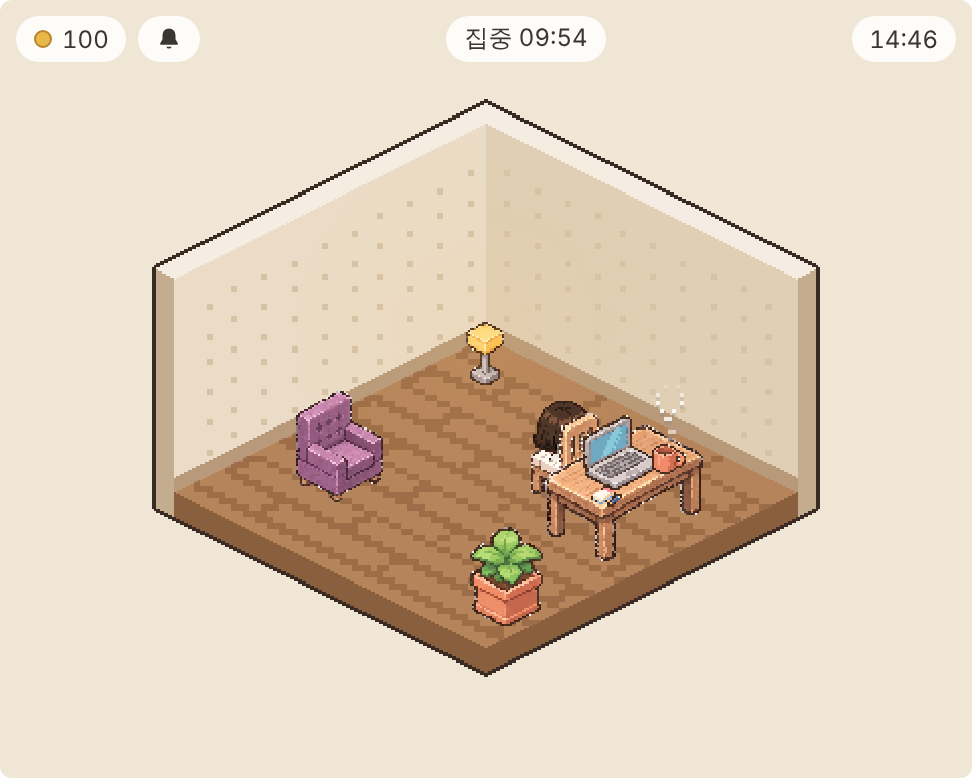
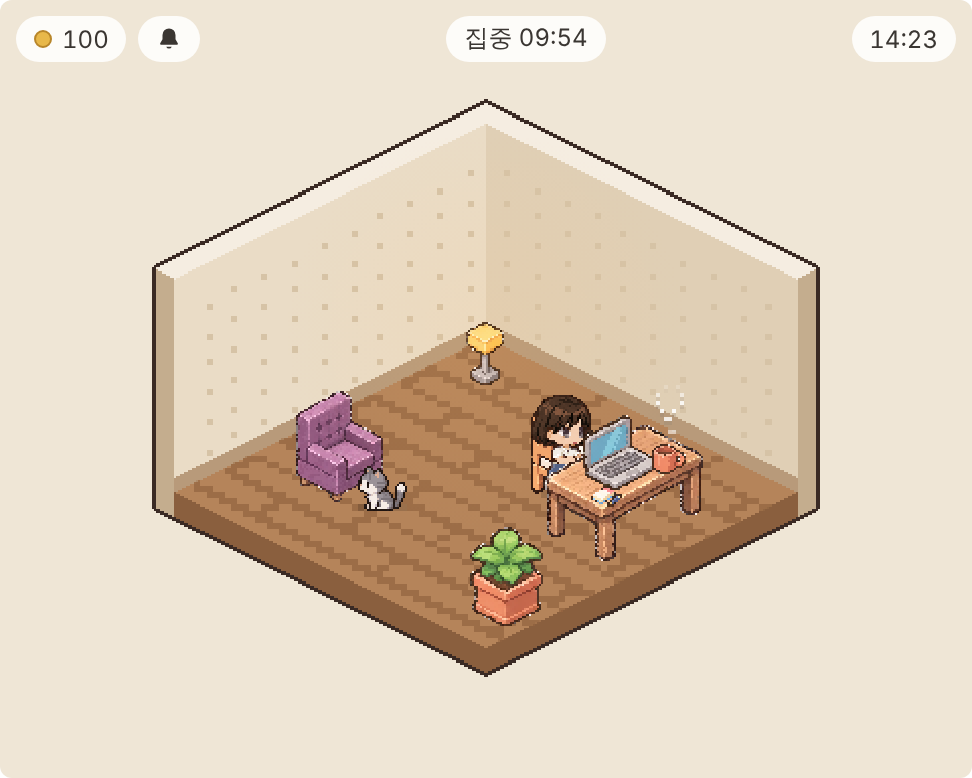
의자·흔들의자 반대 방향(세밀) 그림 추가: 4방향 돌리기
Claude-Session: https://claude.ai/code/session_017aF2aZeAYzMjvegGtH2ZQ4

Changed region(s): [[0.5247, 0.4936, 0.6173, 0.6478], [0.3704, 0.5861, 0.4321, 0.6787], [0.9259, 0.0308, 0.9568, 0.0617]]

diff --git a/index.html b/index.html
@@ -5,7 +5,7 @@
   <meta name="viewport" content="width=device-width, initial-scale=1">
   <title>My Cozy Room</title>
   <!-- 파일 뒤의 ?v= 번호는 업데이트할 때마다 바꿉니다. (브라우저가 옛 파일을 쓰지 않도록) -->
-  <link rel="stylesheet" href="style.css?v=20261119-2">
+  <link rel="stylesheet" href="style.css?v=20261119-3">
   <!-- 화면 전환에 꼭 필요한 규칙 (디자인 파일을 늦게 받아도 화면이 섞이지 않게) -->
   <style>
     .screen { display: none; }
@@ -443,23 +443,23 @@
   </main>
 
   <!-- 순서 중요: 데이터 → 방 → 저장 → 게임 → 집중 → 첫 화면 → 로그인 -->
-  <script src="data.js?v=20261119-2"></script>
-  <script src="rooms.js?v=20261119-2"></script>
-  <script src="save.js?v=20261119-2"></script>
-  <script src="hero-art.js?v=20261119-2"></script>
-  <script src="acc-art.js?v=20261119-2"></script>
-  <script src="pet-art.js?v=20261119-2"></script>
-  <script src="outfit-art.js?v=20261119-2"></script>
-  <script src="lie-front-art.js?v=20261119-2"></script>
-  <script src="game.js?v=20261119-2"></script>
-  <script src="focus.js?v=20261119-2"></script>
-  <script src="side.js?v=20261119-2"></script>
-  <script src="start.js?v=20261119-2"></script>
-  <script src="friends.js?v=20261119-2"></script>
+  <script src="data.js?v=20261119-3"></script>
+  <script src="rooms.js?v=20261119-3"></script>
+  <script src="save.js?v=20261119-3"></script>
+  <script src="hero-art.js?v=20261119-3"></script>
+  <script src="acc-art.js?v=20261119-3"></script>
+  <script src="pet-art.js?v=20261119-3"></script>
+  <script src="outfit-art.js?v=20261119-3"></script>
+  <script src="lie-front-art.js?v=20261119-3"></script>
+  <script src="game.js?v=20261119-3"></script>
+  <script src="focus.js?v=20261119-3"></script>
+  <script src="side.js?v=20261119-3"></script>
+  <script src="start.js?v=20261119-3"></script>
+  <script src="friends.js?v=20261119-3"></script>
   <!-- 구글 로그인 (Supabase) -->
   <script src="https://cdn.jsdelivr.net/npm/@supabase/supabase-js@2.45.4/dist/umd/supabase.min.js"></script>
-  <script src="cloud.js?v=20261119-2"></script>
-  <script src="gcal.js?v=20261119-2"></script>
-  <script src="news.js?v=20261119-2"></script>
+  <script src="cloud.js?v=20261119-3"></script>
+  <script src="gcal.js?v=20261119-3"></script>
+  <script src="news.js?v=20261119-3"></script>
 </body>
 </html>

diff --git a/data.js b/data.js
@@ -1340,6 +1340,11 @@ Object.assign(FURNITURE, {
 FURNITURE.bed.backFront = [[0.458, 0.526], [0.906, 0.244], [1, 0.27], [1, 1], [0.458, 1]];
 FURNITURE.pinkBed.backFront = [[0, 0.36], [0.104, 0.32], [0.458, 0.563], [0.458, 1], [0, 1]];
 
+// ---- 의자 반대 방향 그림 (돌리기 3·4번째 방향) ----
+FURNITURE.chair.imageBack = "img/furn/chairBack.png";         // 앞을 보고 앉음 (등받이가 뒤)
+FURNITURE.rockingChair.imageBack = "img/furn/rockingChairBack.png"; // 뒷모습으로 앉음
+FURNITURE.rockingChair.backClipBack = [0, 0, 0.6, 0.7];        // 뒤쪽 그림에서 앞에 선 등받이 칸 (앉은 몸을 가림)
+
 // ---- 상점 세부 분류 ----------------------------------------------------
 // 가구는 스타일(style), 소품은 종류(kind)로 나눕니다. 상점 탭 아래 버튼으로 골라 볼 수 있어요.
 // 새 가구를 추가할 때는 가구에 style: "antique"처럼 직접 적거나, 아래 표에 이름(id)을 넣으면 됩니다.
